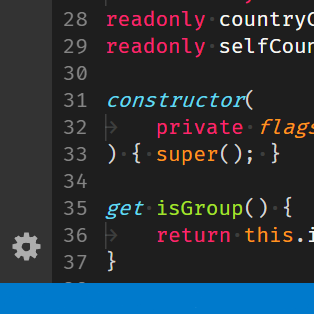
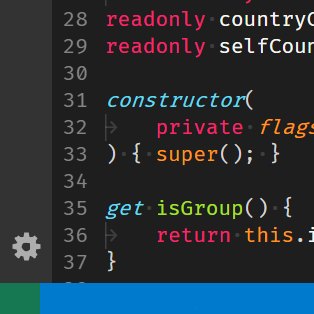
Refreshed default VSCode Dark colors
Also edited a couple of minor values in Monokai colors

Changed region(s): [[0.0, 0.8885, 0.1433, 1.0]]

diff --git a/README.md b/README.md
@@ -1,5 +1,4 @@
-# VS Monokai
-## VSCode Dark + Monokai
-Monokai text colors on top of VSCode backgrounds.
+# Monokai + VS Dark
+Monokai editor colors on top of VSCode Dark backgrounds.
 
 ![](img/theme-vsmonokai.png)
